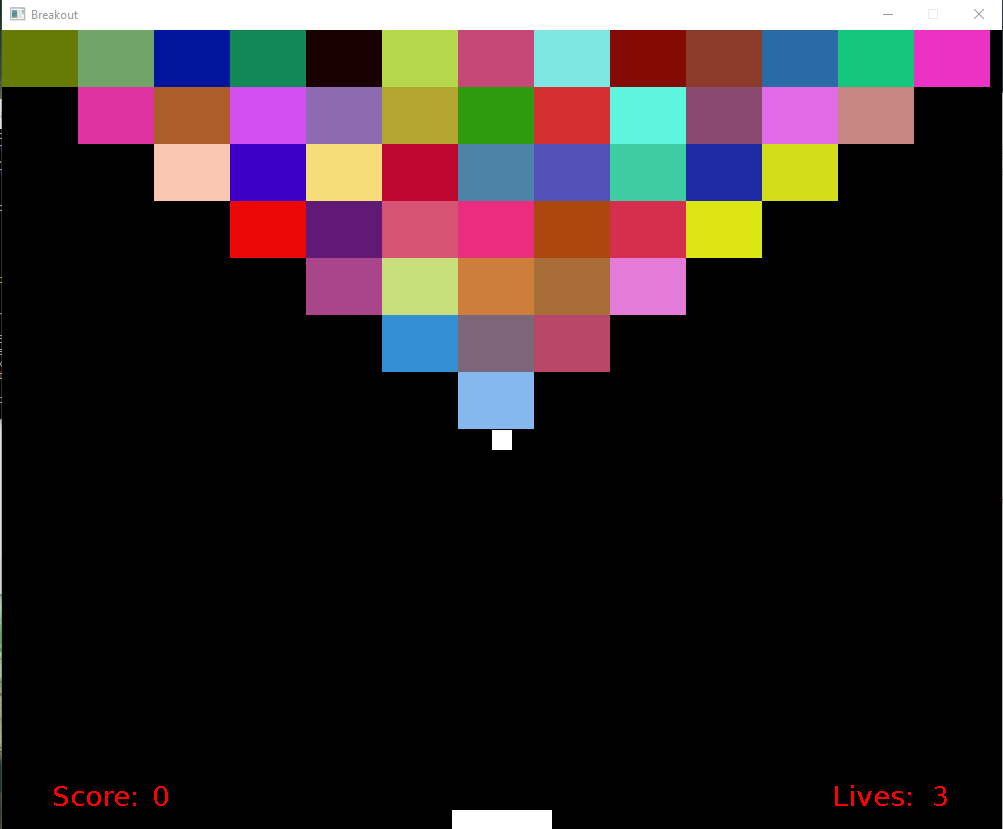
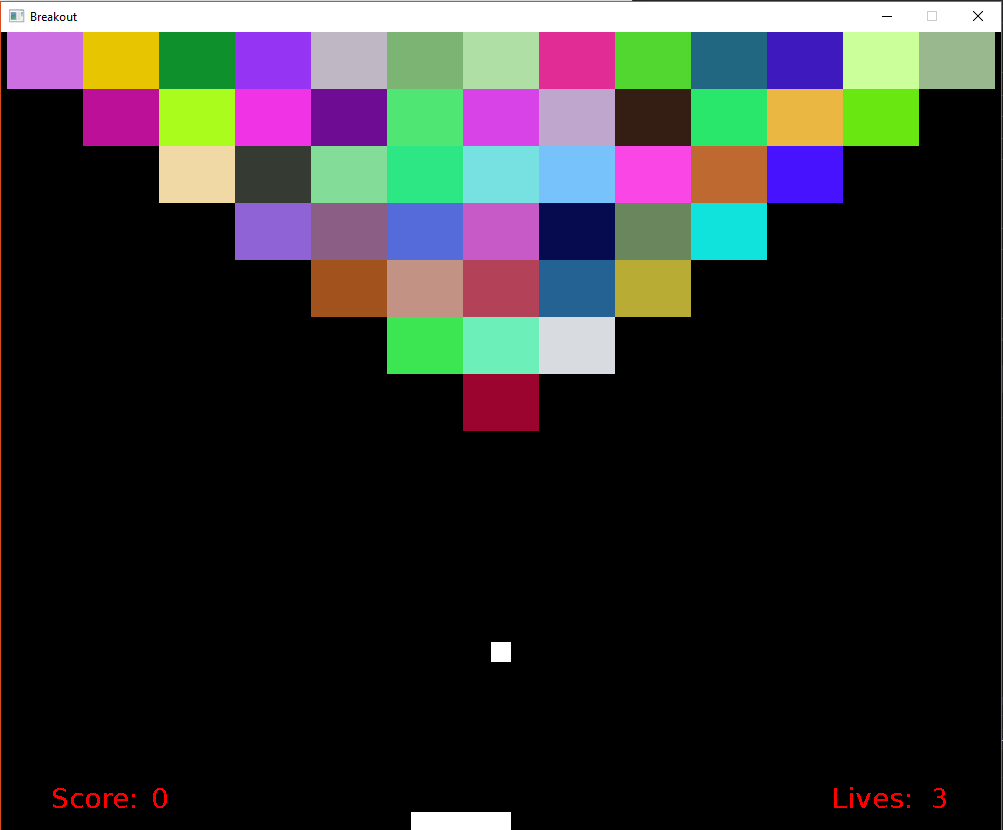
Bug fixes

diff --git a/src/Graphics.cpp b/src/Graphics.cpp
@@ -13,6 +13,7 @@ Graphics::Graphics(const int width, const int height, const std::string& title):
 	TTF_Init();
 	_window = SDL_CreateWindow(title.c_str(), SDL_WINDOWPOS_CENTERED, SDL_WINDOWPOS_CENTERED, width, height, SDL_WINDOW_SHOWN);
 	_renderer = SDL_CreateRenderer(_window, -1, SDL_RENDERER_ACCELERATED | SDL_RENDERER_PRESENTVSYNC);
+	resetTransformation();
 }
 
 Graphics::~Graphics()
@@ -83,23 +84,36 @@ TTF_Font* Graphics::loadFont(const std::string& file, const int size)
 
 void Graphics::drawTexture(SDL_Texture* texture, const SDL_Rect& src, const int x, const int y, const double angle)
 {
+	if(!texture)
+	{
+		return;
+	}
 	int w, h;
 	SDL_QueryTexture(texture, nullptr, nullptr, &w, &h);
-	SDL_Rect dst = { x, y, w, h };
+	SDL_Rect dst = { x - _transX, y - _transY, w, h };
 	SDL_RenderCopyEx(_renderer, texture, &src, &dst, angle, nullptr, SDL_FLIP_NONE);
 }
 
 void Graphics::drawTexture(SDL_Texture* texture, const int x, const int y, const double angle)
 {
+	if (!texture)
+	{
+		return;
+	}
 	int w, h;
 	SDL_QueryTexture(texture, nullptr, nullptr, &w, &h);
-	SDL_Rect dst = { x, y, w, h };
+	SDL_Rect dst = { x - _transX, y - _transY, w, h };
 	SDL_RenderCopyEx(_renderer, texture, nullptr, &dst, angle, nullptr, SDL_FLIP_NONE);
 }
 
 void Graphics::drawTexture(SDL_Texture* texture, const double angle)
 {
-	SDL_RenderCopyEx(_renderer, texture, nullptr, nullptr, angle, nullptr, SDL_FLIP_NONE);
+	if (!texture)
+	{
+		return;
+	}
+	SDL_Rect actRect = { -_transX, -_transY, _width, _height };
+	SDL_RenderCopyEx(_renderer, texture, nullptr, &actRect, angle, nullptr, SDL_FLIP_NONE);
 }
 
 void Graphics::drawText(const int x, const int y, TTF_Font* font, const std::string& text, const double angle, const int renderType)
@@ -122,6 +136,10 @@ void Graphics::drawText(const int x, const int y, TTF_Font* font, const std::str
 
 void Graphics::drawStaticText(const int x, const int y, TTF_Font* font, const std::string& text, const double angle = 0)
 {
+	if(!font)
+	{
+		return;
+	}
 	SDL_Texture* texture;
 	if (_textures.find(text) == _textures.end())
 	{
@@ -139,6 +157,10 @@ void Graphics::drawStaticText(const int x, const int y, TTF_Font* font, const st
 
 void Graphics::drawDynamicText(const int x, const int y, TTF_Font* font, const std::string& text, const double angle = 0)
 {
+	if (!font)
+	{
+		return;
+	}
 	SDL_Surface* surf = TTF_RenderText_Solid(font, text.c_str(), _drawColor);
 	SDL_Texture* texture = SDL_CreateTextureFromSurface(_renderer, surf);
 	SDL_FreeSurface(surf);
@@ -148,25 +170,39 @@ void Graphics::drawDynamicText(const int x, const int y, TTF_Font* font, const s
 
 void Graphics::drawPoint(const int x, const int y)
 {
-	SDL_RenderDrawPoint(_renderer, x, y);
+	SDL_RenderDrawPoint(_renderer, x - _transX, y - _transY);
 }
 
 void Graphics::drawLine(const int x1, const int y1, const int x2, const int y2)
 {
-	SDL_RenderDrawLine(_renderer, x1, y1, x2, y2);
+	SDL_RenderDrawLine(_renderer, x1 - _transX, y1 - _transY, x2 - _transX, y2 - _transY);
 }
 
 void Graphics::drawFilledRect(const SDL_Rect& rect)
 {
-	SDL_RenderFillRect(_renderer, &rect);
+	SDL_Rect actRect = { rect.x - _transX, rect.y - _transY, rect.w, rect.h };
+	SDL_RenderFillRect(_renderer, &actRect);
 }
 
 void Graphics::drawRectOutline(const SDL_Rect& rect)
 {
-	SDL_RenderDrawRect(_renderer, &rect);
+	SDL_Rect actRect = { rect.x - _transX, rect.y - _transY, rect.w, rect.h };
+	SDL_RenderDrawRect(_renderer, &actRect);
 }
 
 void Graphics::update()
 {
 	SDL_RenderPresent(_renderer);
+}
+
+void Graphics::translate(const int x, const int y)
+{
+	_transX += x;
+	_transY += y;
+}
+
+void Graphics::resetTransformation()
+{
+	_transX = 0;
+	_transY = 0;
 }

diff --git a/src/Game.cpp b/src/Game.cpp
@@ -86,10 +86,12 @@ void Game::render()
 {
 	_paddle.render();
 	_ball.render();
+	_graphics->translate(-_blockOffset, 0);
 	for(auto& block : _blocks)
 	{
 		block.render();
 	}
+	_graphics->resetTransformation();
 	_graphics->setDrawColor(Color::RED);
 	const std::string scoreTxt = std::to_string(_score);
 	_graphics->drawText(50, _graphics->getHeight() - 50, _graphics->loadFont(_FONT), "Score:", TEXT_RENDER_STATIC);
@@ -118,6 +120,7 @@ void Game::readLevel(const std::string& file)
 	const int levelHeight = (int)std::floor(contents.size() / levelWidth);
 	const int blockWidth = _graphics->getWidth() / levelWidth;
 	const int blockHeight = (_graphics->getHeight() / 2) / levelHeight;
+	_blockOffset = (_graphics->getWidth() - levelWidth * blockWidth) / 2;
 	int pos = 0;
 	std::string oneLongStr;
 	for(auto const& itr : contents)

diff --git a/include/Graphics.hpp b/include/Graphics.hpp
@@ -25,6 +25,7 @@ private:
 	std::map<std::string, SDL_Texture*> _textures;
 	std::map<std::pair<std::string, int>, TTF_Font*> _fonts;
 	SDL_Color _drawColor;
+	int _transX, _transY;
 private:
 	void drawStaticText(const int x, const int y, TTF_Font* font, const std::string& text, const double angle);
 	void drawDynamicText(const int x, const int y, TTF_Font* font, const std::string& text, const double angle);
@@ -47,6 +48,8 @@ public:
 	void drawFilledRect(const SDL_Rect& rect);
 	void drawRectOutline(const SDL_Rect& rect);
 	void update();
+	void translate(const int x, const int y);
+	void resetTransformation();
 };
 
 

diff --git a/include/Game.hpp b/include/Game.hpp
@@ -22,6 +22,7 @@ private:
 	std::vector<Block> _blocks;
 	int _lives;
 	int _score;
+	int _blockOffset;
 	const int _MAX_LIVES, _SCORE_INC;
 	const std::string _FONT;
 public:
